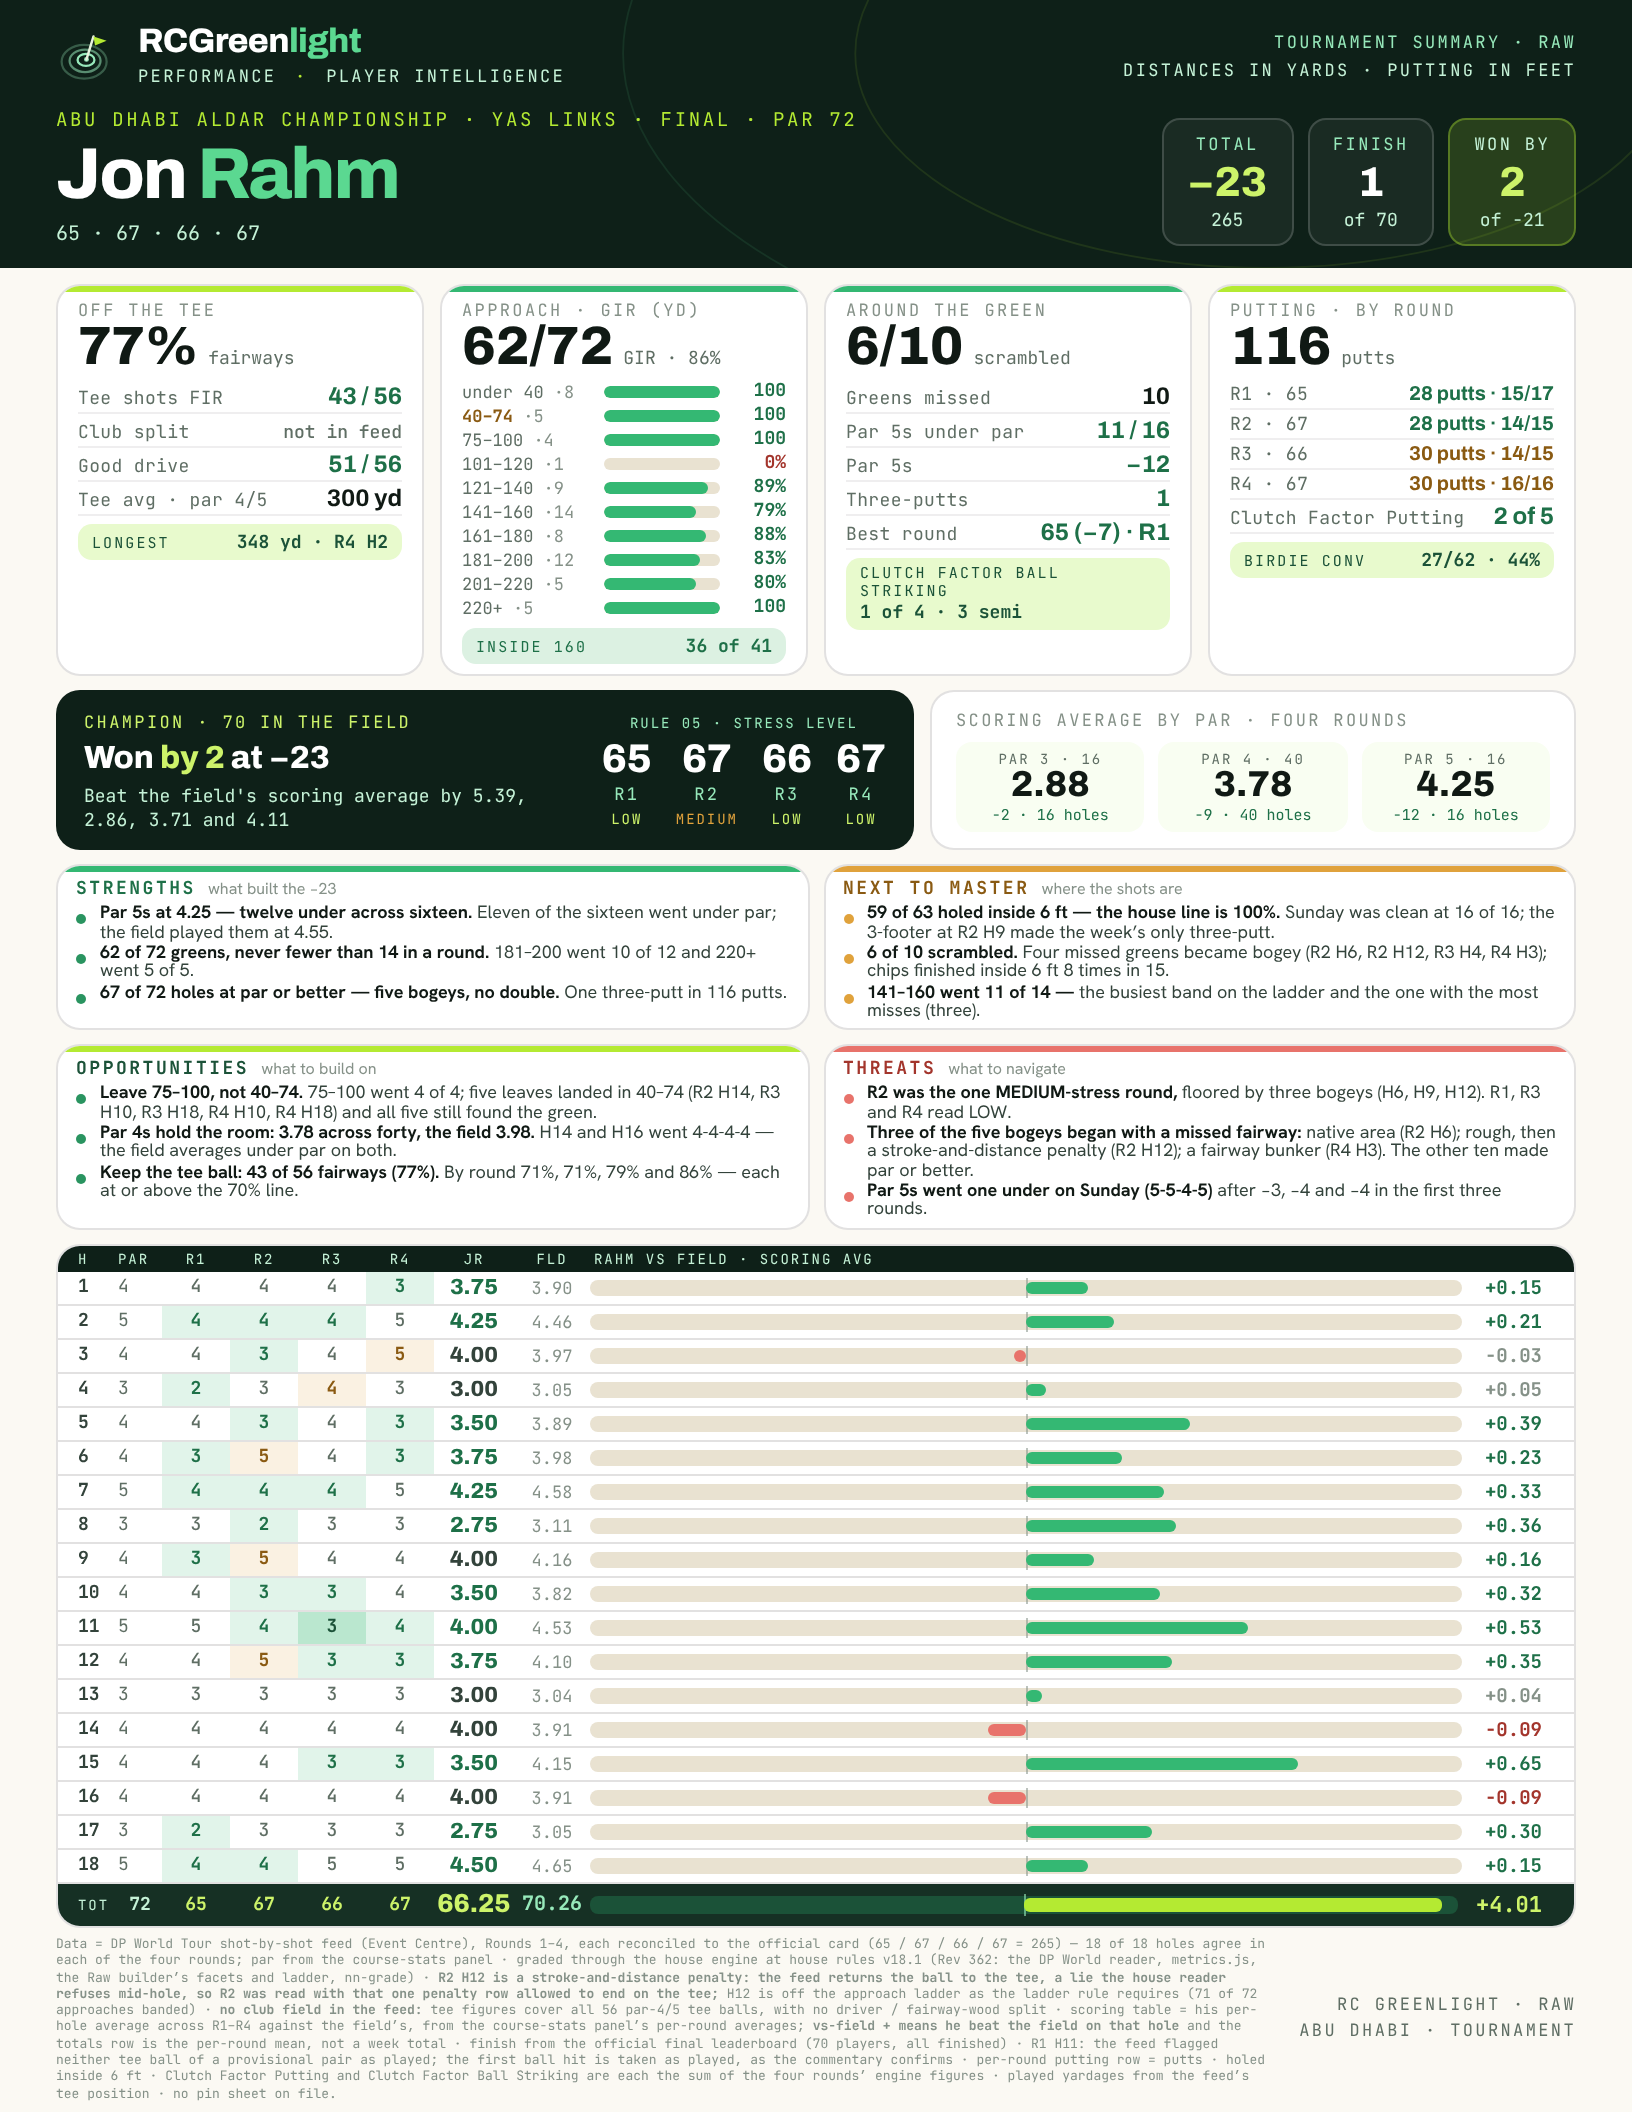
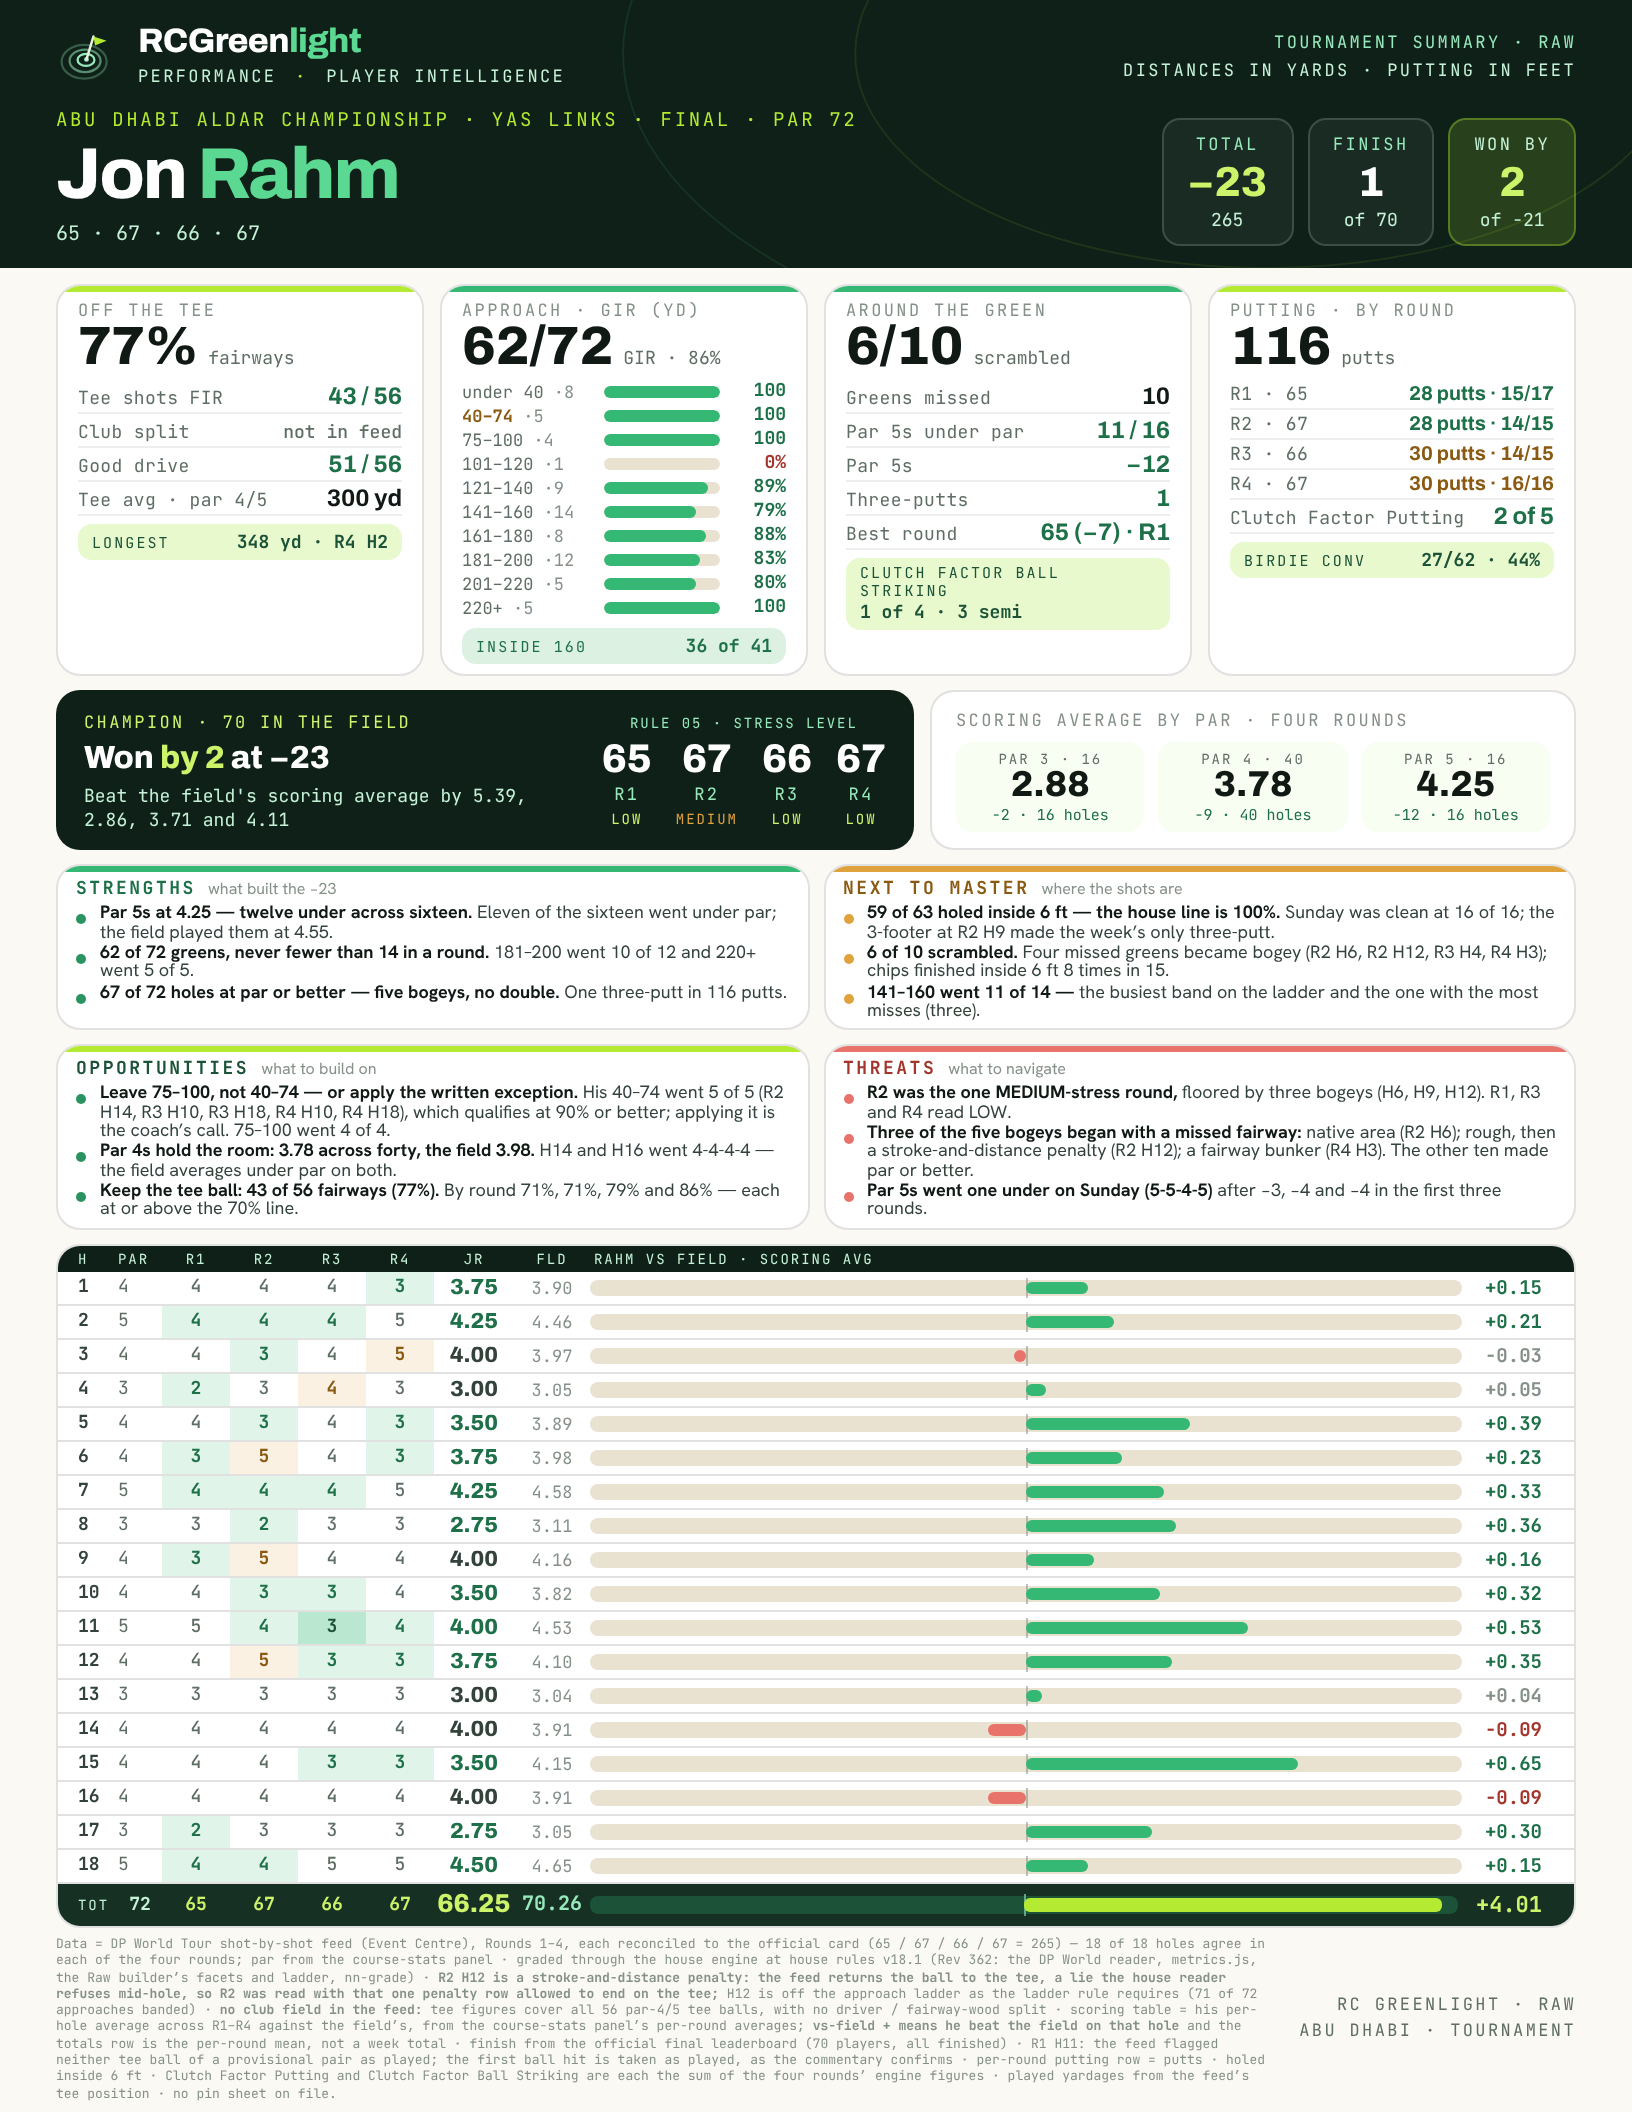
Rahm Abu Dhabi final: note the dead-zone exception (owner's form answer)
Opportunities keeps "Leave 75-100, not 40-74" and adds that his own 40-74
went 5 of 5, which qualifies for non-negotiable 3's written exception
(90% or better); applying it is the coach's call. Claim lint clear, fit clean.

Claude-Session: https://claude.ai/code/session_01NMLr1C2yb39Ty2f9PdnTPJ

Changed region(s): [[0.0625, 0.5, 0.4688, 0.5938]]

diff --git a/europeantour/reports/Jon Rahm - Abu Dhabi Aldar Championship - Tournament Summary - Raw.html b/europeantour/reports/Jon Rahm - Abu Dhabi Aldar Championship - Tournament Summary - Raw.html
@@ -114,7 +114,7 @@ a{color:var(--g700);}a:hover{color:var(--g500);}
   <div style="display:grid;grid-template-columns:1fr 1fr;gap:7px;margin-top:7px;flex:0 0 auto;">
     <div class="swot"><span class="cap" style="position:absolute;top:0;left:0;right:0;height:3px;background:var(--g500);"></span><div style="display:flex;align-items:baseline;gap:6px;margin:1px 0 2px;"><span class="kick" style="color:var(--g700);font-size:9px;font-weight:700;">Strengths</span><span style="font-size:8px;color:var(--ink4);">what built the −23</span></div><ul><li style="--d:var(--g600);"><b style="color:var(--ink9);">Par 5s at 4.25 — twelve under across sixteen.</b> Eleven of the sixteen went under par; the field played them at 4.55.</li><li style="--d:var(--g600);"><b style="color:var(--ink9);">62 of 72 greens, never fewer than 14 in a round.</b> 181–200 went 10 of 12 and 220+ went 5 of 5.</li><li style="--d:var(--g600);"><b style="color:var(--ink9);">67 of 72 holes at par or better — five bogeys, no double.</b> One three-putt in 116 putts.</li></ul></div>
     <div class="swot"><span class="cap" style="position:absolute;top:0;left:0;right:0;height:3px;background:var(--bog);"></span><div style="display:flex;align-items:baseline;gap:6px;margin:1px 0 2px;"><span class="kick" style="color:var(--bogT);font-size:9px;font-weight:700;">Next to master</span><span style="font-size:8px;color:var(--ink4);">where the shots are</span></div><ul><li style="--d:var(--bog);"><b style="color:var(--ink9);">59 of 63 holed inside 6 ft — the house line is 100%.</b> Sunday was clean at 16 of 16; the 3-footer at R2 H9 made the week’s only three-putt.</li><li style="--d:var(--bog);"><b style="color:var(--ink9);">6 of 10 scrambled.</b> Four missed greens became bogey (R2 H6, R2 H12, R3 H4, R4 H3); chips finished inside 6 ft 8 times in 15.</li><li style="--d:var(--bog);"><b style="color:var(--ink9);">141–160 went 11 of 14 —</b> the busiest band on the ladder and the one with the most misses (three).</li></ul></div>
-    <div class="swot"><span class="cap" style="position:absolute;top:0;left:0;right:0;height:3px;background:var(--lime);"></span><div style="display:flex;align-items:baseline;gap:6px;margin:1px 0 2px;"><span class="kick" style="color:var(--g800);font-size:9px;font-weight:700;">Opportunities</span><span style="font-size:8px;color:var(--ink4);">what to build on</span></div><ul><li style="--d:var(--g600);"><b style="color:var(--ink9);">Leave 75–100, not 40–74.</b> 75–100 went 4 of 4; five leaves landed in 40–74 (R2 H14, R3 H10, R3 H18, R4 H10, R4 H18) and all five still found the green.</li><li style="--d:var(--g600);"><b style="color:var(--ink9);">Par 4s hold the room: 3.78 across forty, the field 3.98.</b> H14 and H16 went 4-4-4-4 — the field averages under par on both.</li><li style="--d:var(--g600);"><b style="color:var(--ink9);">Keep the tee ball: 43 of 56 fairways (77%).</b> By round 71%, 71%, 79% and 86% — each at or above the 70% line.</li></ul></div>
+    <div class="swot"><span class="cap" style="position:absolute;top:0;left:0;right:0;height:3px;background:var(--lime);"></span><div style="display:flex;align-items:baseline;gap:6px;margin:1px 0 2px;"><span class="kick" style="color:var(--g800);font-size:9px;font-weight:700;">Opportunities</span><span style="font-size:8px;color:var(--ink4);">what to build on</span></div><ul><li style="--d:var(--g600);"><b style="color:var(--ink9);">Leave 75–100, not 40–74 — or apply the written exception.</b> His 40–74 went 5 of 5 (R2 H14, R3 H10, R3 H18, R4 H10, R4 H18), which qualifies at 90% or better; applying it is the coach’s call. 75–100 went 4 of 4.</li><li style="--d:var(--g600);"><b style="color:var(--ink9);">Par 4s hold the room: 3.78 across forty, the field 3.98.</b> H14 and H16 went 4-4-4-4 — the field averages under par on both.</li><li style="--d:var(--g600);"><b style="color:var(--ink9);">Keep the tee ball: 43 of 56 fairways (77%).</b> By round 71%, 71%, 79% and 86% — each at or above the 70% line.</li></ul></div>
     <div class="swot"><span class="cap" style="position:absolute;top:0;left:0;right:0;height:3px;background:var(--red);"></span><div style="display:flex;align-items:baseline;gap:6px;margin:1px 0 2px;"><span class="kick" style="color:var(--redT);font-size:9px;font-weight:700;">Threats</span><span style="font-size:8px;color:var(--ink4);">what to navigate</span></div><ul><li style="--d:var(--red);"><b style="color:var(--ink9);">R2 was the one MEDIUM-stress round,</b> floored by three bogeys (H6, H9, H12). R1, R3 and R4 read LOW.</li><li style="--d:var(--red);"><b style="color:var(--ink9);">Three of the five bogeys began with a missed fairway:</b> native area (R2 H6); rough, then a stroke-and-distance penalty (R2 H12); a fairway bunker (R4 H3). The other ten made par or better.</li><li style="--d:var(--red);"><b style="color:var(--ink9);">Par 5s went one under on Sunday (5-5-4-5)</b> after −3, −4 and −4 in the first three rounds.</li></ul></div>
   </div>
 

diff --git a/europeantour/reports/build-final/make_sheet_final.py b/europeantour/reports/build-final/make_sheet_final.py
@@ -301,7 +301,7 @@ swot = f'''  <div style="display:grid;grid-template-columns:1fr 1fr;gap:7px;marg
         ("141–160 went 11 of 14 —", " the busiest band on the ladder and the one with the most misses (three)."),
     ])}
     {quad("lime", "g800", "Opportunities", "what to build on", "g600", [
-        ("Leave 75–100, not 40–74.", " 75–100 went 4 of 4; five leaves landed in 40–74 (R2 H14, R3 H10, R3 H18, R4 H10, R4 H18) and all five still found the green."),
+        ("Leave 75–100, not 40–74 — or apply the written exception.", " His 40–74 went 5 of 5 (R2 H14, R3 H10, R3 H18, R4 H10, R4 H18), which qualifies at 90% or better; applying it is the coach’s call. 75–100 went 4 of 4."),
         (f"Par 4s hold the room: {two(F['byPar']['4']['avg'])} across forty, the field {two(F['byPar']['4']['field'])}.", " H14 and H16 went 4-4-4-4 — the field averages under par on both."),
         ("Keep the tee ball: 43 of 56 fairways (77%).", " By round 71%, 71%, 79% and 86% — each at or above the 70% line."),
     ])}

diff --git a/europeantour/reports/Jon Rahm - Abu Dhabi Aldar Championship - derivation.md b/europeantour/reports/Jon Rahm - Abu Dhabi Aldar Championship - derivation.md
@@ -41,6 +41,13 @@ off the approach ladder by the ladder rule (71 of 72 approaches banded; ladder g
 - Other non-negotiables for the record: Rule 01/02 NOT MEASURED every round; Rule 03 KEPT R1, ATTENTION R2 (H14 67 yd),
   R3 (H10 55, H18 54), R4 (H10 65, H18 48); Rule 04 ATTENTION R2 (H12), KEPT otherwise.
 
+## The dead-zone exception (owner's form answer 2026-11-08: "Note the exception")
+
+Opportunities keeps "Leave 75–100, not 40–74" and adds the written exception: his own 40–74 band went **5 of 5** (R2 H14,
+R3 H10, R3 H18, R4 H10, R4 H18), which meets non-negotiable 3's written exception (`house-rules.js` NN3: a 40–74 leave is
+allowed when the player's own band covering it reads ≥90%). The next band (75–100) is also 4 of 4, so it qualifies on the
+≥90% test, not on "higher than the next band". Applying it is the coach's call, as the policy says; the sheet says so.
+
 ## Deviations from the gold
 
 1. **He is the champion**, so "vs the champion" becomes **Champion · won by 2**, carrying the margin over the field's
